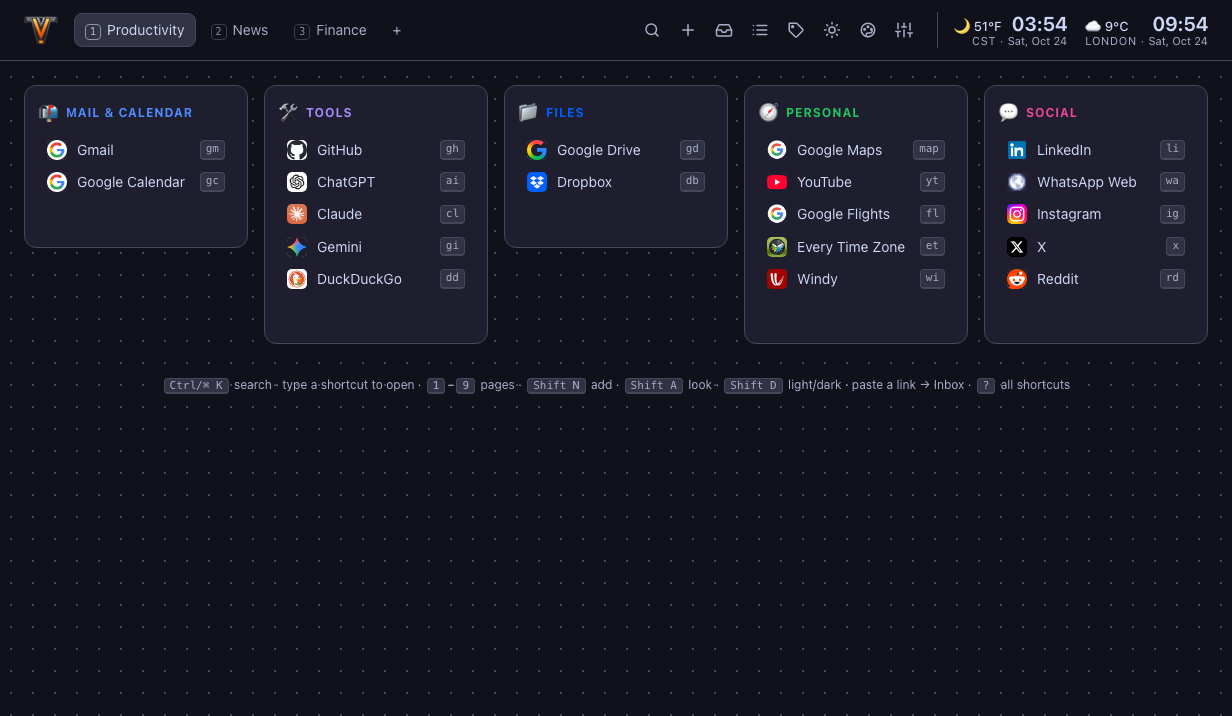
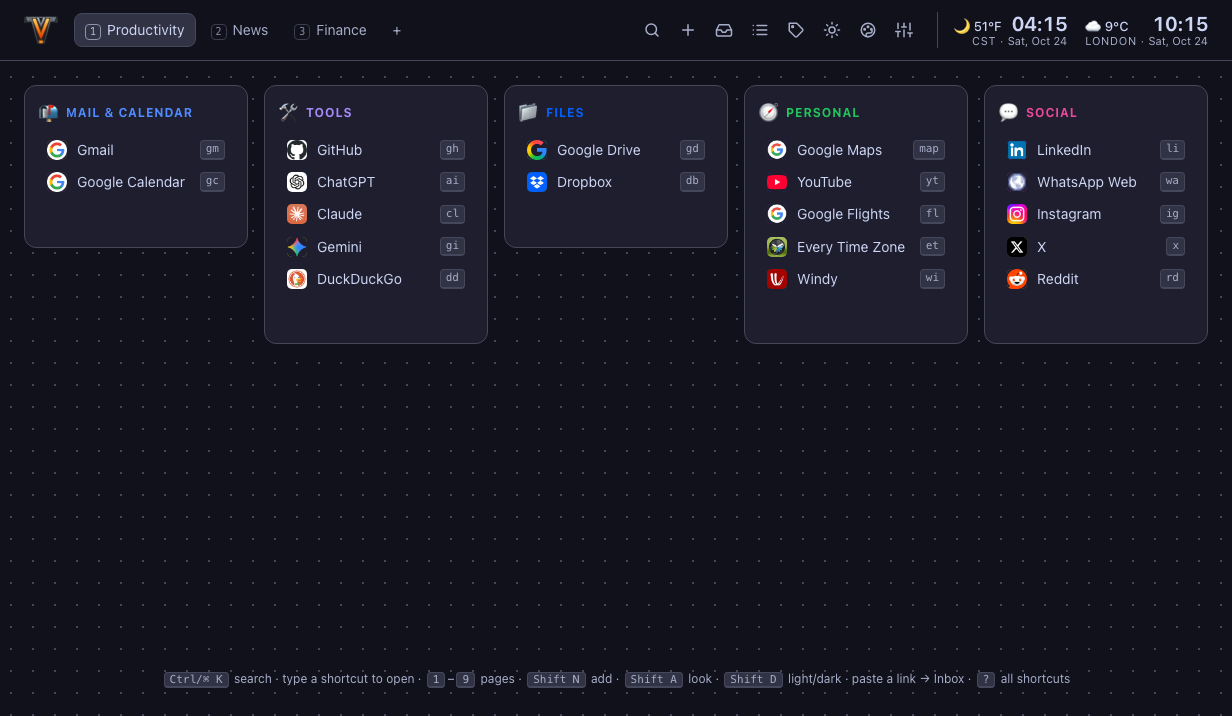
Keep the key legend at the bottom of the window on short pages
The page is now a flex column with main growing to fill the space, so
the legend sits at the bottom of the window when the cards fit, and
right after the last card when the page scrolls.

README describes this; tour GIF and screenshot re-recorded.

diff --git a/index.html b/index.html
@@ -268,7 +268,7 @@
 }
 *{box-sizing:border-box}
 html,body{margin:0;min-height:100%}
-body{background:var(--bg);color:var(--text);font:14px/1.45 var(--font);min-height:100vh;-webkit-font-smoothing:antialiased}
+body{background:var(--bg);color:var(--text);font:14px/1.45 var(--font);min-height:100vh;-webkit-font-smoothing:antialiased;display:flex;flex-direction:column}
 body[data-font=mono]{--font:var(--mono)}
 body[data-font=serif]{--font:ui-serif,Georgia,"Times New Roman",serif}
 body[data-font=rounded]{--font:ui-rounded,"SF Pro Rounded","Nunito",var(--sans)}
@@ -316,7 +316,7 @@ header.top{display:flex;align-items:center;gap:16px;padding:12px 24px;position:s
 .banner{display:flex;gap:10px;align-items:center;flex-wrap:wrap;margin:16px 24px 0;padding:10px 14px;border:1px solid var(--accent);background:color-mix(in srgb,var(--accent) 12%,var(--surface));border-radius:10px}
 .banner span{flex:1;min-width:200px}
 
-main{padding:24px;max-width:1600px;margin:0 auto}
+main{padding:24px;max-width:1600px;margin:0 auto;width:100%;box-sizing:border-box;flex:1 0 auto} /* grows so the key legend sits at the bottom of short pages */
 .pinned{display:flex;gap:8px;flex-wrap:wrap;margin-bottom:var(--gap)}
 .pinned .bm{background:var(--surface);border:1px solid var(--border);border-radius:999px;padding:5px 12px 5px 6px}
 .grid{display:grid;gap:var(--gap);grid-template-columns:repeat(auto-fill,minmax(220px,1fr));align-items:start}

diff --git a/README.md b/README.md
@@ -35,7 +35,7 @@ You can also host it on any static host, such as GitHub Pages, Netlify or an int
   | Sliders | Settings | `Shift S` |
 
 - **Main area:** cards of links (called categories) and widgets. Each card's menu (`⋯`, or right-click the header) adds, sorts, resizes, moves or deletes it. Click a card's title to collapse it.
-- **Bottom:** a one-line reminder of the main keys. Hide it with `Shift Z`.
+- **Bottom:** a one-line reminder of the main keys. It stays at the bottom of the window, or follows the last card when a page is taller than the window. Hide it with `Shift Z`.
 
 ### Opening links
 
